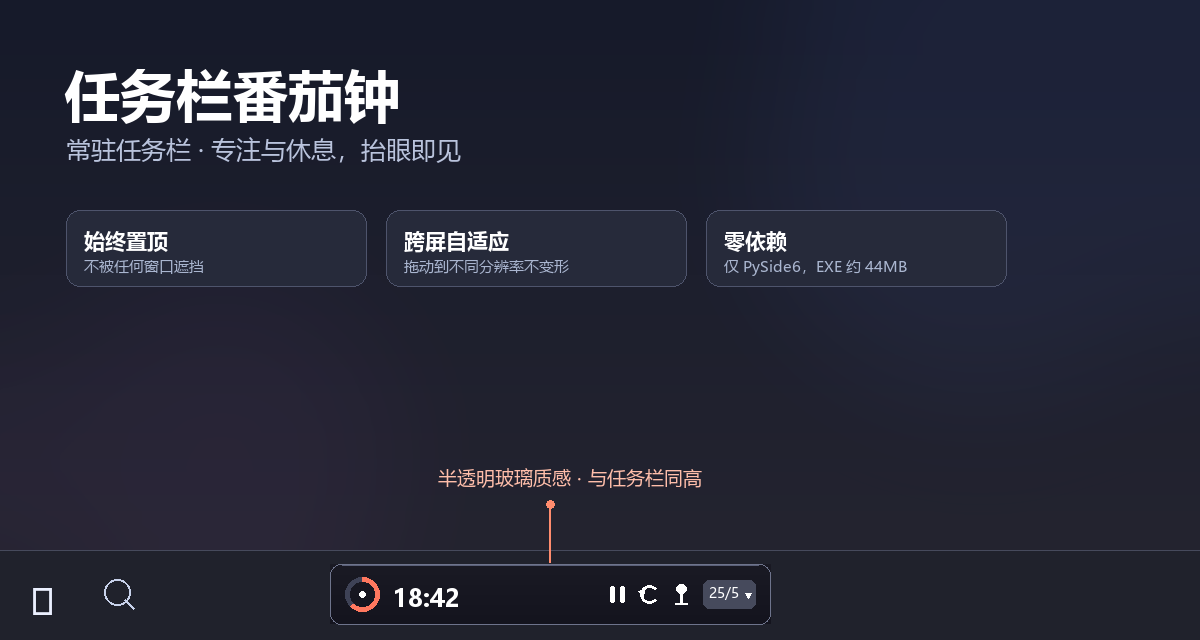
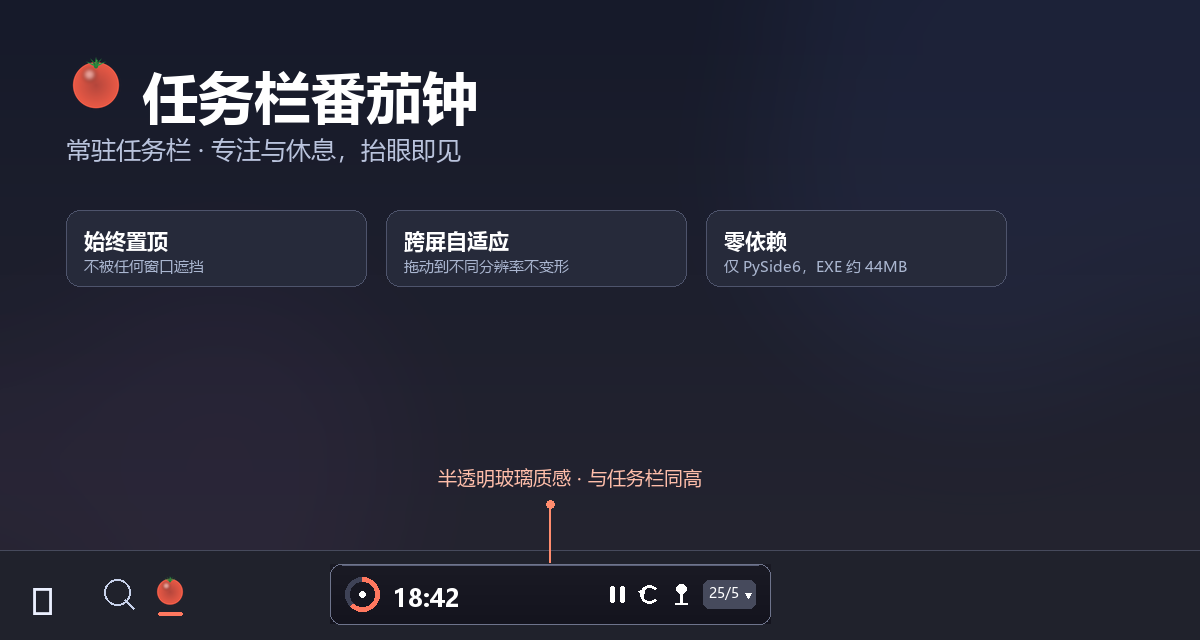
style: 全局统一番茄图标（窗口/托盘/对话框/配图/README）

Changed region(s): [[0.0308, 0.0938, 0.4008, 0.2188], [0.1233, 0.9062, 0.1542, 0.9688]]

diff --git a/docs/images/draw_preview.py b/docs/images/draw_preview.py
@@ -5,8 +5,16 @@ from PIL import Image, ImageDraw, ImageFont, ImageFilter
 import math, os
 
 OUT = os.path.dirname(os.path.abspath(__file__))
+ROOT = os.path.dirname(os.path.dirname(OUT))
+TOMATO = os.path.join(ROOT, 'assets', 'tomato.png')  # 与软件完全相同的番茄图标
 FONT = "C:/Windows/Fonts/msyh.ttc"
 FONT_BD = "C:/Windows/Fonts/msyhbd.ttc"
+
+
+def paste_tomato(img, x, y, size):
+    """把软件同款番茄图标贴到 (x, y)，尺寸 size×size。"""
+    t = Image.open(TOMATO).convert('RGBA').resize((size, size), Image.LANCZOS)
+    img.paste(t, (x, y), t)
 
 def f(size, bold=False):
     try:
@@ -110,7 +118,8 @@ for cx,cy,rad,col in [(980,170,280,(70,90,160,30)),(220,460,240,(120,70,140,22))
     img=Image.alpha_composite(img,glow.filter(ImageFilter.GaussianBlur(80)))
 d=ImageDraw.Draw(img,"RGBA")
 
-d.text((64,56),"任务栏番茄钟",font=f(56,True),fill=(255,255,255,250))
+paste_tomato(img, 64, 50, 64)
+d.text((142,58),"任务栏番茄钟",font=f(56,True),fill=(255,255,255,250))
 d.text((66,132),"常驻任务栏 · 专注与休息，抬眼即见",font=f(25),fill=(185,195,220,235))
 
 # 特性标签
@@ -129,6 +138,9 @@ d.line([(0,tb_y0),(W,tb_y0)],fill=(70,74,92,255),width=1)
 d.text((30,tb_y0+26),"⊞",font=f(36),fill=(235,240,255,230))
 d.ellipse((104,tb_y0+29,130,tb_y0+55),outline=(200,210,235,180),width=2)
 d.line((124,tb_y0+49,133,tb_y0+58),fill=(200,210,235,180),width=2)
+# 固定在任务栏的番茄钟应用图标（同款番茄）+ 运行指示条
+paste_tomato(img, 152, tb_y0+22, 36)
+d.rounded_rectangle((158,tb_y0+62,182,tb_y0+65),radius=2,fill=(255,120,95,235))
 # 焦点窗口放大展示
 panel(img,(330,tb_y0+14,770,tb_y0+74),work=True,progress=0.62,time_txt="18:42",playing=True)
 # 标注
@@ -143,7 +155,8 @@ print("hero.png saved")
 W2,H2=1200,520
 img2=Image.new("RGBA",(W2,H2),(18,20,30,255))
 d2=ImageDraw.Draw(img2,"RGBA")
-d2.text((60,40),"专注状态一览",font=f(40,True),fill=(255,255,255,248))
+paste_tomato(img2, 60, 38, 44)
+d2.text((116,44),"专注状态一览",font=f(40,True),fill=(255,255,255,248))
 cards=[
     (60,"专注中","圆环实时显示进度\n倒计时精确到秒",True,0.62,"18:42",True),
     (460,"短休息","每轮专注后\n自动进入 5 分钟短休",False,0.35,"04:16",False),

diff --git a/tray_icon.py b/tray_icon.py
@@ -1,21 +1,8 @@
-import os
-import sys
-
 from PySide6.QtWidgets import QSystemTrayIcon, QMenu
-from PySide6.QtGui import QAction, QIcon, QPixmap
+from PySide6.QtGui import QAction
 from PySide6.QtCore import Signal
 
-
-def _load_tomato_icon():
-    """加载番茄图标（兼容开发环境与打包 EXE）。"""
-    if getattr(sys, 'frozen', False):
-        base = sys._MEIPASS
-    else:
-        base = os.path.dirname(os.path.abspath(__file__))
-    path = os.path.join(base, 'assets', 'app.ico')
-    if os.path.exists(path):
-        return QIcon(path)
-    return QIcon()
+from app_icon import get_app_icon
 
 
 class TrayIcon(QSystemTrayIcon):
@@ -37,7 +24,7 @@ class TrayIcon(QSystemTrayIcon):
         self.show()
 
     def create_icon(self):
-        self.setIcon(_load_tomato_icon())
+        self.setIcon(get_app_icon())
 
     def create_menu(self):
         self.menu = QMenu()

diff --git a/app_icon.py b/app_icon.py
@@ -1,0 +1,28 @@
+"""全局唯一的番茄图标来源。
+
+所有窗口（主窗口、设置、历史）、系统托盘、EXE 都从这里取图标，
+保证整个软件视觉统一。兼容开发环境与 PyInstaller 打包后的 EXE。
+"""
+import os
+import sys
+
+from PySide6.QtGui import QIcon
+
+_ICON_FILE = os.path.join('assets', 'app.ico')
+
+
+def icon_path():
+    """返回番茄图标的绝对路径（文件不存在时也返回路径，便于调试）。"""
+    if getattr(sys, 'frozen', False):
+        base = sys._MEIPASS
+    else:
+        base = os.path.dirname(os.path.abspath(__file__))
+    return os.path.join(base, _ICON_FILE)
+
+
+def get_app_icon():
+    """返回全局番茄图标 QIcon；若文件缺失则返回空图标，不影响运行。"""
+    path = icon_path()
+    if os.path.exists(path):
+        return QIcon(path)
+    return QIcon()

diff --git a/appbar_window.py b/appbar_window.py
@@ -14,21 +14,15 @@ from PySide6.QtGui import (
 import os
 
 from theme import get_palette
+from app_icon import get_app_icon
 
 user32 = ctypes.windll.user32
 shell32 = ctypes.windll.shell32
 
 
 def _app_icon():
-    """加载应用番茄图标（兼容开发环境与打包 EXE）。"""
-    if getattr(sys, 'frozen', False):
-        base = sys._MEIPASS
-    else:
-        base = os.path.dirname(os.path.abspath(__file__))
-    path = os.path.join(base, 'assets', 'app.ico')
-    if os.path.exists(path):
-        return QIcon(path)
-    return QIcon()
+    """兼容旧调用：统一使用全局番茄图标。"""
+    return get_app_icon()
 
 # ── Windows API constants ──────────────────────────────────────────
 SWP_NOMOVE = 0x0002

diff --git a/main.py b/main.py
@@ -6,7 +6,8 @@ from PySide6.QtWidgets import QApplication, QMessageBox, QSystemTrayIcon
 from PySide6.QtCore import Qt, QTimer
 from PySide6.QtGui import QFont
 
-from appbar_window import PomodoroWindow, _app_icon
+from appbar_window import PomodoroWindow
+from app_icon import get_app_icon
 from timer_logic import PomodoroTimer, TimerMode, TimerState
 from settings import SettingsManager, SettingsDialog
 from tray_icon import TrayIcon
@@ -412,7 +413,7 @@ def main():
     )
     app = QApplication(sys.argv)
     app.setQuitOnLastWindowClosed(False)
-    app.setWindowIcon(_app_icon())
+    app.setWindowIcon(get_app_icon())
 
     font = QFont("Segoe UI", 9)
     app.setFont(font)

diff --git a/settings.py b/settings.py
@@ -9,6 +9,7 @@ from PySide6.QtWidgets import (
 from PySide6.QtCore import Qt, Signal
 
 from theme import THEMES
+from app_icon import get_app_icon
 import sounds
 
 
@@ -116,6 +117,7 @@ class SettingsDialog(QDialog):
         super().__init__(parent)
         self.settings_manager = settings_manager
         self.setWindowTitle("设置")
+        self.setWindowIcon(get_app_icon())
         # 独立顶层窗口 + 置顶，避免被主窗口的 50ms topmost 抢占导致闪动
         self.setWindowFlags(Qt.Window | Qt.WindowStaysOnTopHint | Qt.WindowCloseButtonHint)
         self.setAttribute(Qt.WA_TranslucentBackground, False)

diff --git a/history_dialog.py b/history_dialog.py
@@ -7,6 +7,7 @@ from PySide6.QtWidgets import (
 )
 from PySide6.QtCore import Qt
 from PySide6.QtGui import QColor
+from app_icon import get_app_icon
 
 
 class HistoryDialog(QDialog):
@@ -14,6 +15,7 @@ class HistoryDialog(QDialog):
         super().__init__(parent)
         self.history_manager = history_manager
         self.setWindowTitle("历史记录")
+        self.setWindowIcon(get_app_icon())
         self.setFixedSize(500, 400)
         self.init_ui()
     

diff --git a/README.md b/README.md
@@ -1,6 +1,6 @@
 <div align="center">
 
-# 🍅 任务栏番茄钟
+# <img src="assets/tomato.png" alt="番茄" width="44" align="absmiddle"> 任务栏番茄钟
 
 **常驻任务栏的极简番茄工作法工具 —— 专注与休息，抬眼即见。**
 
@@ -119,6 +119,7 @@ build.bat
 ```
 .
 ├── main.py              # 入口、应用逻辑、音效与通知
+├── app_icon.py          # 全局唯一番茄图标源（窗口/托盘/对话框统一）
 ├── appbar_window.py     # 任务栏窗口、进度环、拖动/置顶/跨屏自适应
 ├── timer_logic.py       # 计时状态机（单调时钟 + 长休息）
 ├── settings.py          # 设置管理与设置对话框
